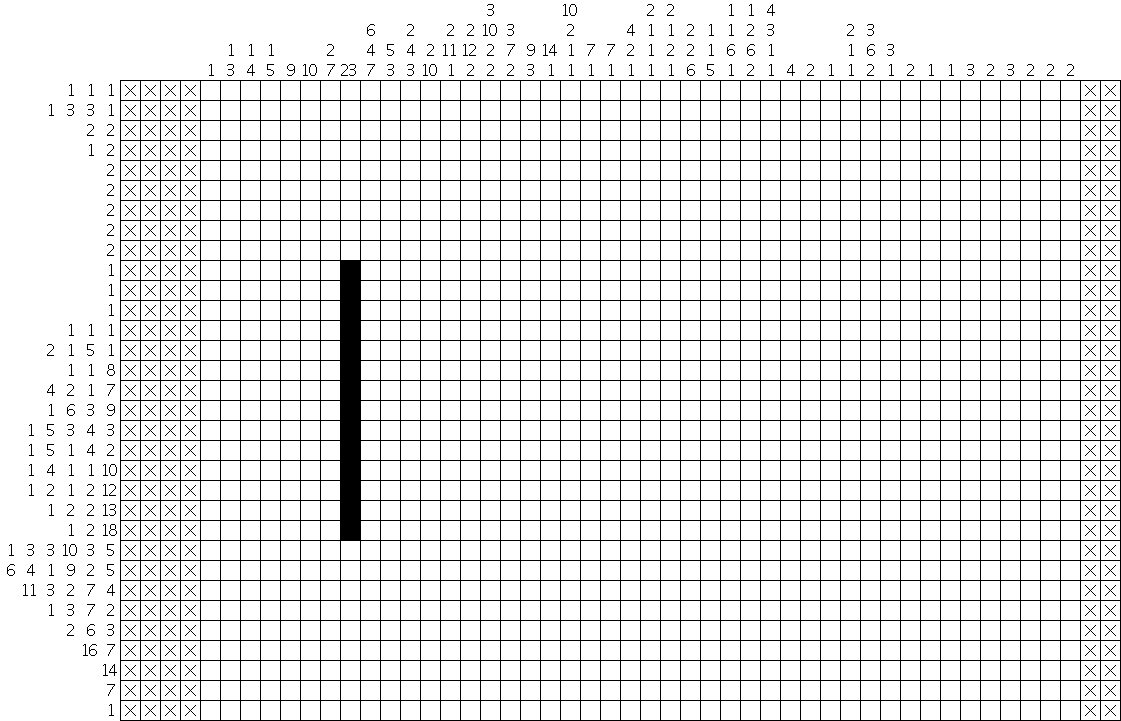
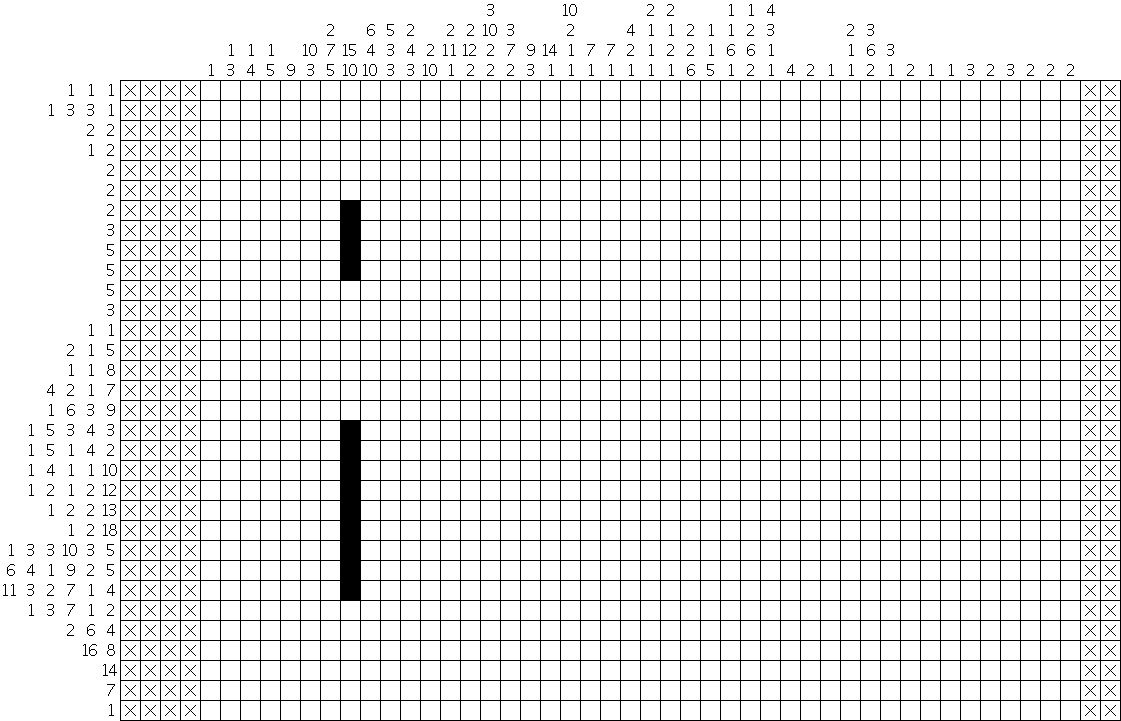
...

Changed region(s): [[0.281, 0.3967, 0.3434, 0.5798], [0.281, 0.7323, 0.3434, 0.8239], [0.281, 0.2746, 0.3434, 0.3662]]

diff --git a/pixel/src/name/martingeisse/pixel/nonogram/NonogramStarterStrategy.java b/pixel/src/name/martingeisse/pixel/nonogram/NonogramStarterStrategy.java
@@ -9,8 +9,21 @@ package name.martingeisse.pixel.nonogram;
  * known pixels into account, so they only make sense once at the
  * beginning.
  */
-public class NonogramStarterStrategy extends NonogramTransposableStrategy {
+public class NonogramStarterStrategy extends NonogramSlicingStrategy {
 
+	/* (non-Javadoc)
+	 * @see name.martingeisse.pixel.nonogram.NonogramSlicingStrategy#handleSlice(int, int[])
+	 */
+	@Override
+	protected void handleSlice(int primaryLocation, int[] primaryHints) {
+		
+		//
+		if (primaryHints.length == 0) {
+			setPixels(primaryLocation, 0, getSecondarySize(), false);
+			return;
+		}
+	}
+	
 	/* (non-Javadoc)
 	 * @see name.martingeisse.pixel.nonogram.NonogramTransposableStrategy#runForTransposition()
 	 */
@@ -20,16 +33,29 @@ public class NonogramStarterStrategy extends NonogramTransposableStrategy {
 		int secondarySize = getSecondarySize();
 		int[][] primaryHints = getPrimaryHints();
 		for (int i=0; i<primarySize; i++) {
-			if (primaryHints[i].length == 0) {
-				setPixels(i, 0, secondarySize, false);
-			} else if (primaryHints[i].length == 1) {
-				int rangeLength = primaryHints[i][0];
-				int missing = secondarySize - rangeLength;
-				if (missing < rangeLength) {
-					setPixels(i, missing, secondarySize - 2 * missing, true);
-				}
-			}
 		}
+	}
+
+	private void findStarter(int primary, int[] primaryHints) {
+		
+		// find the number of defined and missing cells
+		int secondarySize = getSecondarySize();
+		int definedCount = -1;
+		for (int primaryHint : primaryHints) {
+			definedCount = definedCount + primaryHint + 1;
+		}
+		int missing = secondarySize - definedCount;
+		
+		// find definitely filled cells based on that
+		int minStart = 0;
+		for (int primaryHint : primaryHints) {
+			int left = primaryHint - missing;
+			if (left > 0) {
+				setPixels(primary, minStart + missing, left, true);
+			}
+			minStart = minStart + primaryHint + 1;
+		}
+		
 	}
 	
 }

diff --git a/pixel/src/name/martingeisse/pixel/nonogram/NonogramSlicingStrategy.java b/pixel/src/name/martingeisse/pixel/nonogram/NonogramSlicingStrategy.java
@@ -1,0 +1,34 @@
+/**
+ * Copyright (c) 2013 Shopgate GmbH
+ */
+
+package name.martingeisse.pixel.nonogram;
+
+/**
+ * Base class for all strategies that "slice" the board into rows/columns
+ * and treat each one separately. Slices are stacked along the primary axis
+ * and expand along the secondary axis.
+ */
+public abstract class NonogramSlicingStrategy extends NonogramTransposableStrategy {
+
+	/* (non-Javadoc)
+	 * @see name.martingeisse.pixel.nonogram.NonogramTransposableStrategy#runForTransposition()
+	 */
+	@Override
+	public final void runForTransposition() {
+		int primarySize = getPrimarySize();
+		int[][] primaryHints = getPrimaryHints();
+		for (int i=0; i<primarySize; i++) {
+			handleSlice(i, primaryHints[i]);
+		}
+	}
+	
+	/**
+	 * Handles a single slice.
+	 * 
+	 * @param primaryLocation the primary location of the slice
+	 * @param primaryHints the primary hints for the slice
+	 */
+	protected abstract void handleSlice(int primaryLocation, int[] primaryHints);
+
+}

diff --git a/pixel/src/name/martingeisse/pixel/nonogram/NonogramTransposableStrategy.java b/pixel/src/name/martingeisse/pixel/nonogram/NonogramTransposableStrategy.java
@@ -114,7 +114,21 @@ public abstract class NonogramTransposableStrategy extends NonogramSolutionStrat
 			solver.getBoard().setPixel(secondary, primary, filled);
 		}
 	}
-	
+
+	/**
+	 * Like setPixel(), but will leave the current pixel value alone
+	 * if the patch value is null, instead of overwriting with null.
+	 * 
+	 * @param primary the location along the primary axis
+	 * @param secondary the location along the secondary axis
+	 * @param filled the pixel color
+	 */
+	public final void patchPixel(int primary, int secondary, Boolean filled) {
+		if (filled != null) {
+			setPixel(primary, secondary, filled);
+		}
+	}
+
 	/**
 	 * Sets a range of pixels. The range runs along the secondary axis.
 	 * @param primary the location along the primary axis

diff --git a/pixel/src/name/martingeisse/pixel/common/Picture.java b/pixel/src/name/martingeisse/pixel/common/Picture.java
@@ -28,9 +28,9 @@ public final class Picture extends AbstractMatrix {
 	public Picture(BufferedImage image) {
 		this(image.getWidth(), image.getHeight());
 		
-		if (image.getType() != BufferedImage.TYPE_BYTE_GRAY && image.getType() != BufferedImage.TYPE_USHORT_GRAY) {
-			throw new IllegalArgumentException("only grayscale images are supported by this constructor");
-		}
+//		if (image.getType() != BufferedImage.TYPE_BYTE_GRAY && image.getType() != BufferedImage.TYPE_USHORT_GRAY) {
+//			throw new IllegalArgumentException("only grayscale images are supported by this constructor");
+//		}
 		Raster raster = image.getRaster();
 		for (int x=0; x<getWidth(); x++) {
 			for (int y=0; y<getHeight(); y++) {
